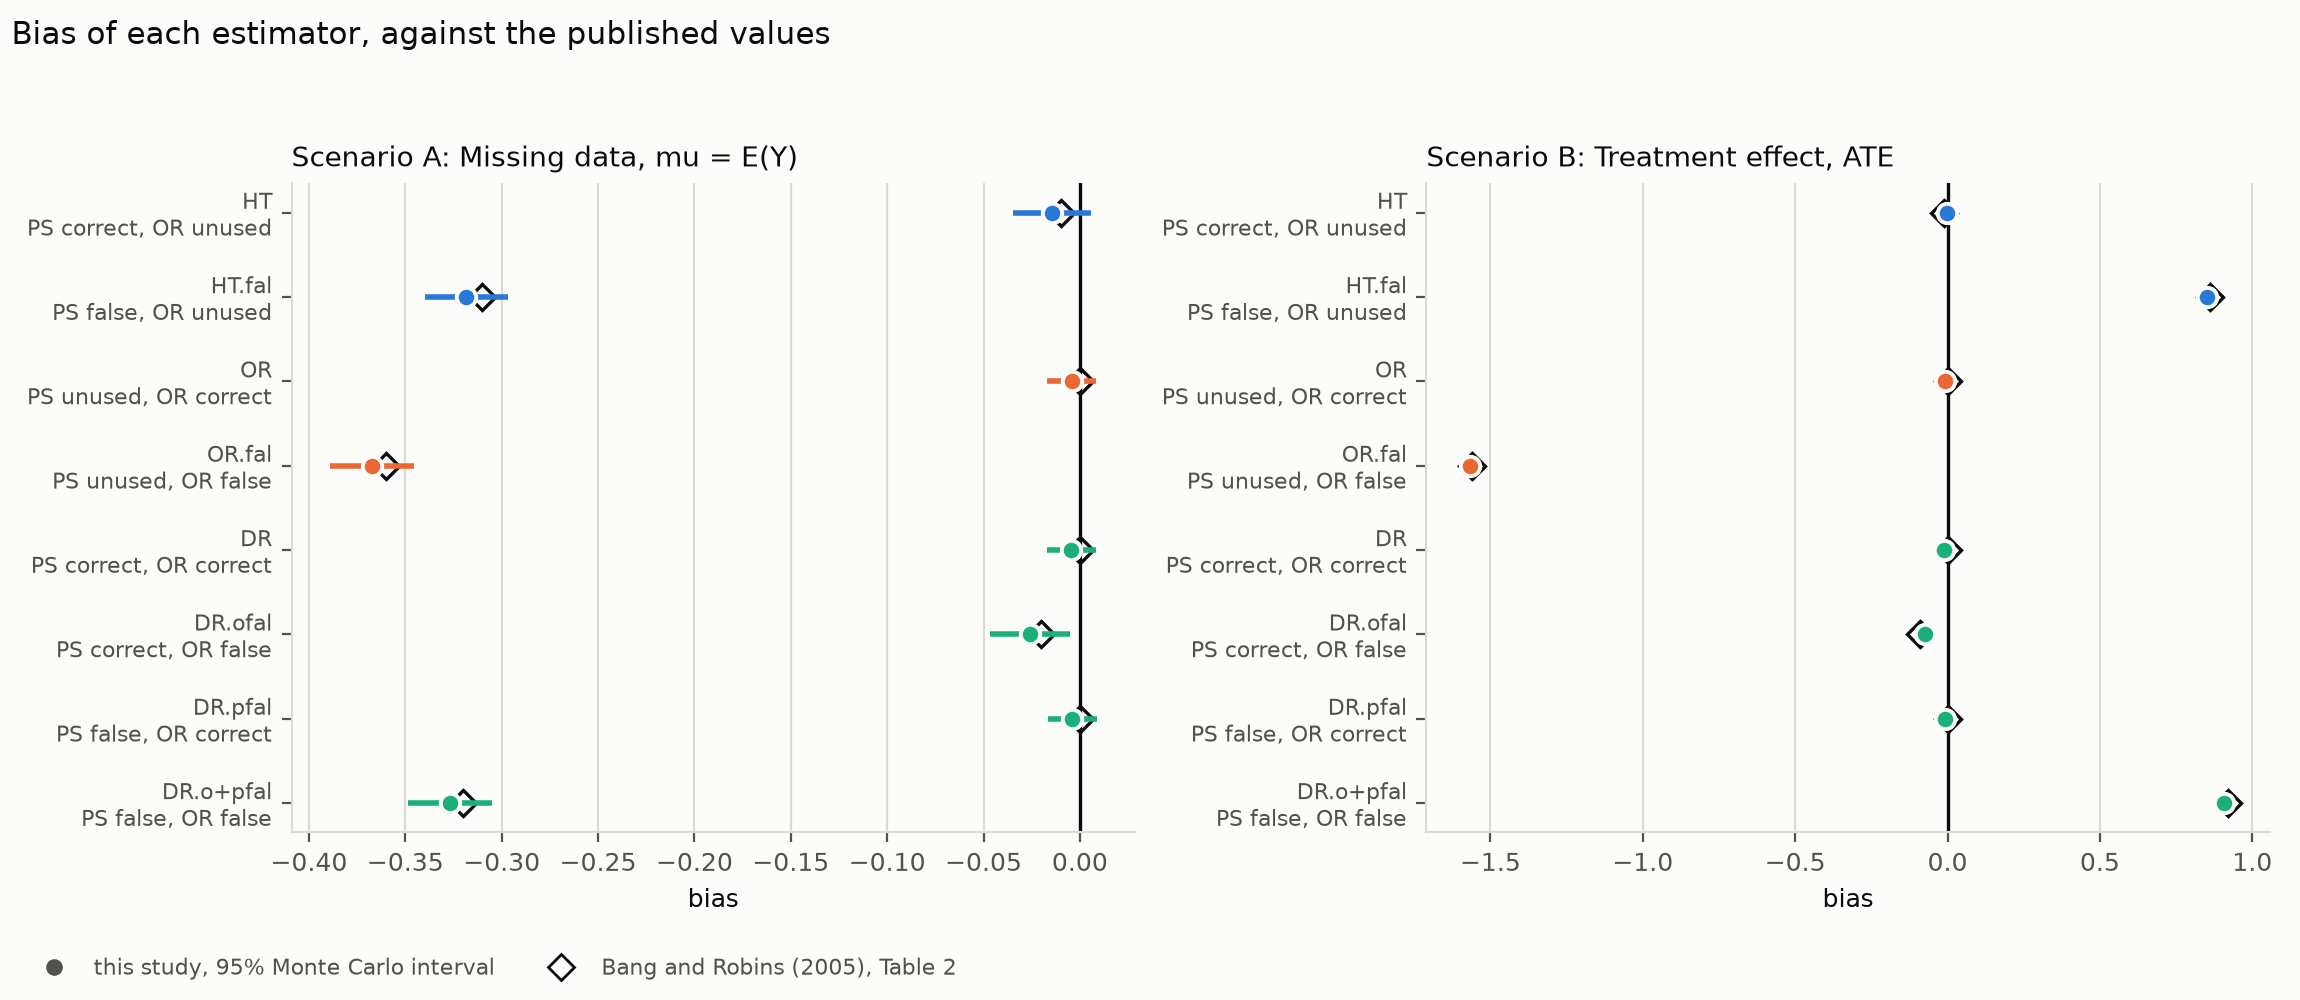
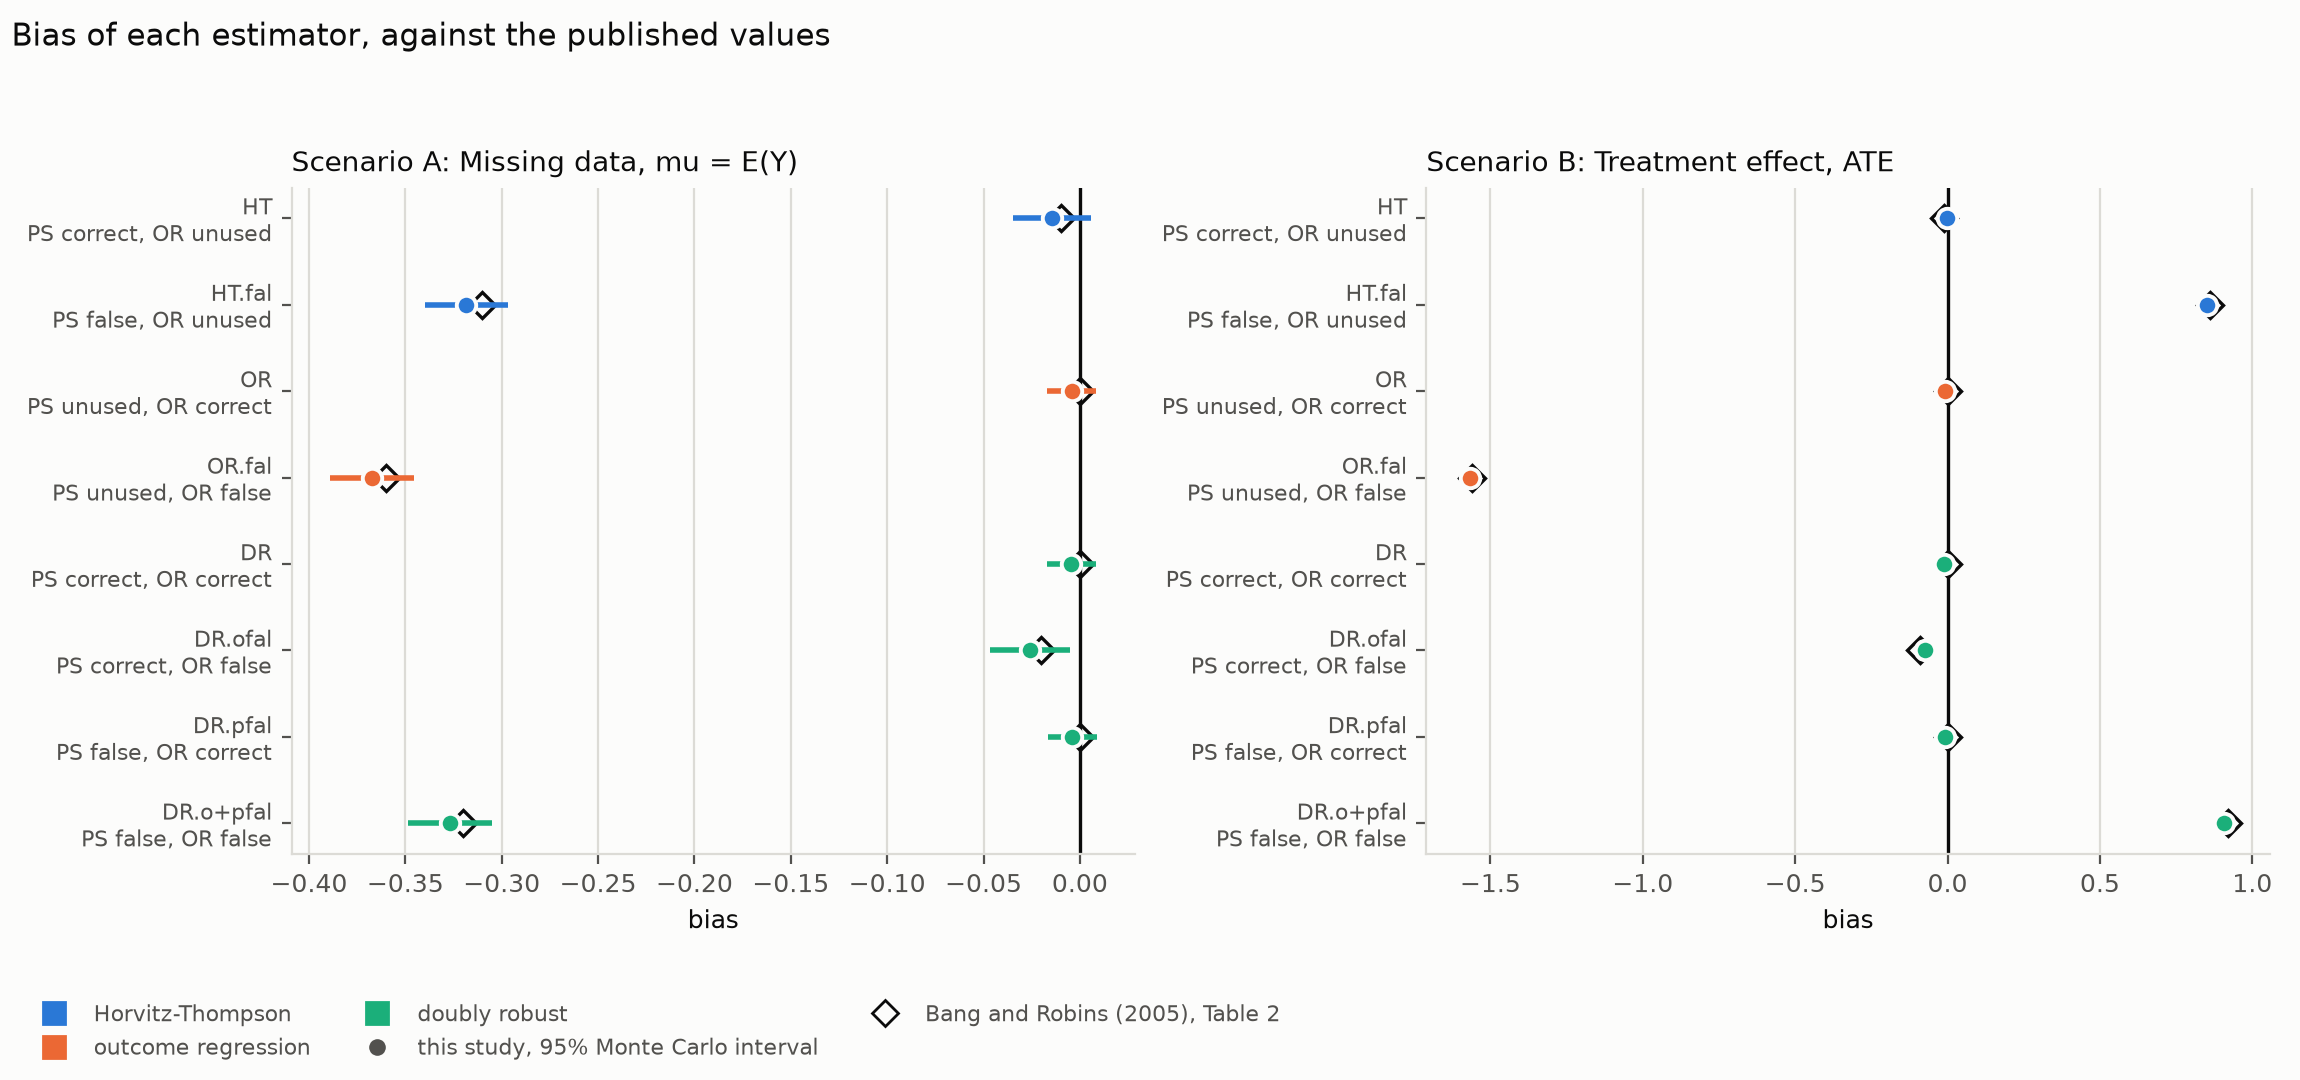
Give every figure a legend naming the estimator families
Identity was carried by the axis labels alone, which reads well but leaves the
colours unexplained. Each figure now names the families it draws.

diff --git a/src/figures.py b/src/figures.py
@@ -23,6 +23,13 @@ GRID = "#dcdbd6"
 # light mode.  Colour follows the estimator family, never its rank in a figure.
 FAMILY_COLOUR = {"HT": "#2a78d6", "OR": "#eb6834", "DR": "#1baf7a", "DR1": "#6250d6"}
 
+FAMILY_LABEL = {
+    "HT": "Horvitz-Thompson",
+    "OR": "outcome regression",
+    "DR": "doubly robust",
+    "DR1": "doubly robust, coefficients constrained equal",
+}
+
 MARK = "·"
 
 
@@ -42,6 +49,13 @@ def style():
         "axes.titlesize": 10,
         "figure.dpi": 200,
     })
+
+
+def family_handles(stems):
+    """Legend entries naming each estimator family beside its colour."""
+    return [plt.Line2D([], [], marker="s", linestyle="none", markersize=8,
+                       color=FAMILY_COLOUR[stem], label=FAMILY_LABEL[stem])
+            for stem in stems]
 
 
 def family(estimator):
@@ -68,7 +82,7 @@ def plot_distributions(raw, out_path):
     they expose the heavy tails of the doubly robust estimator under a false
     outcome model that the variance column reports but does not convey.
     """
-    fig, axes = plt.subplots(1, 2, figsize=(11, 4.6))
+    fig, axes = plt.subplots(1, 2, figsize=(11, 4.9))
 
     for ax, scenario in zip(axes, config.SCENARIOS):
         names = [c[0] for c in config.ESTIMATORS]
@@ -105,9 +119,12 @@ def plot_distributions(raw, out_path):
         ax.set_title(f"Scenario {scenario}: {config.SCENARIOS[scenario]['label']}",
                      loc="left", color=INK)
 
+    fig.legend(handles=family_handles(["HT", "OR", "DR"]), loc="lower left",
+               bbox_to_anchor=(0.005, 0.0), ncol=3, frameon=False, fontsize=8,
+               labelcolor=INK_SOFT)
     fig.suptitle("Sampling distributions over 1000 replicates, n = 500",
                  x=0.005, ha="left", fontsize=11, color=INK)
-    fig.tight_layout(rect=(0, 0, 1, 0.94))
+    fig.tight_layout(rect=(0, 0.05, 1, 0.94))
     fig.savefig(out_path)
     plt.close(fig)
     logger.info("wrote %s", out_path)
@@ -121,7 +138,7 @@ def plot_bias_grid(summary, out_path):
     figure instead of inferred from a table of estimator names.
     """
     core = summary[summary["published_bias_mean"].notna()]
-    fig, axes = plt.subplots(1, 2, figsize=(11.5, 5.0))
+    fig, axes = plt.subplots(1, 2, figsize=(11.5, 5.4))
 
     for ax, scenario in zip(axes, config.SCENARIOS):
         cells = [c for c in config.ESTIMATORS]
@@ -151,7 +168,7 @@ def plot_bias_grid(summary, out_path):
         ax.set_title(f"Scenario {scenario}: {config.SCENARIOS[scenario]['label']}",
                      loc="left", color=INK)
 
-    handles = [
+    handles = family_handles(["HT", "OR", "DR"]) + [
         plt.Line2D([], [], marker="o", linestyle="none", markersize=7,
                    color=INK_SOFT, markeredgecolor=SURFACE,
                    label="this study, 95% Monte Carlo interval"),
@@ -160,10 +177,10 @@ def plot_bias_grid(summary, out_path):
                    label="Bang and Robins (2005), Table 2"),
     ]
     fig.legend(handles=handles, loc="lower left", bbox_to_anchor=(0.005, 0.0),
-               ncol=2, frameon=False, fontsize=8, labelcolor=INK_SOFT)
+               ncol=3, frameon=False, fontsize=8, labelcolor=INK_SOFT)
     fig.suptitle("Bias of each estimator, against the published values",
                  x=0.005, ha="left", fontsize=11, color=INK)
-    fig.tight_layout(rect=(0, 0.06, 1, 0.94))
+    fig.tight_layout(rect=(0, 0.11, 1, 0.94))
     fig.savefig(out_path)
     plt.close(fig)
     logger.info("wrote %s", out_path)
@@ -221,6 +238,8 @@ def plot_extension(summary, out_path):
     ax.set_ylabel("bias in estimating the average treatment effect")
     ax.set_title("Scenario B: constraining the two augmentation coefficients\n"
                  "costs double robustness", loc="left", color=INK)
+    ax.legend(handles=family_handles(["DR", "DR1"]), loc="upper left",
+              frameon=False, fontsize=8, labelcolor=INK_SOFT)
     fig.tight_layout()
     fig.savefig(out_path)
     plt.close(fig)
